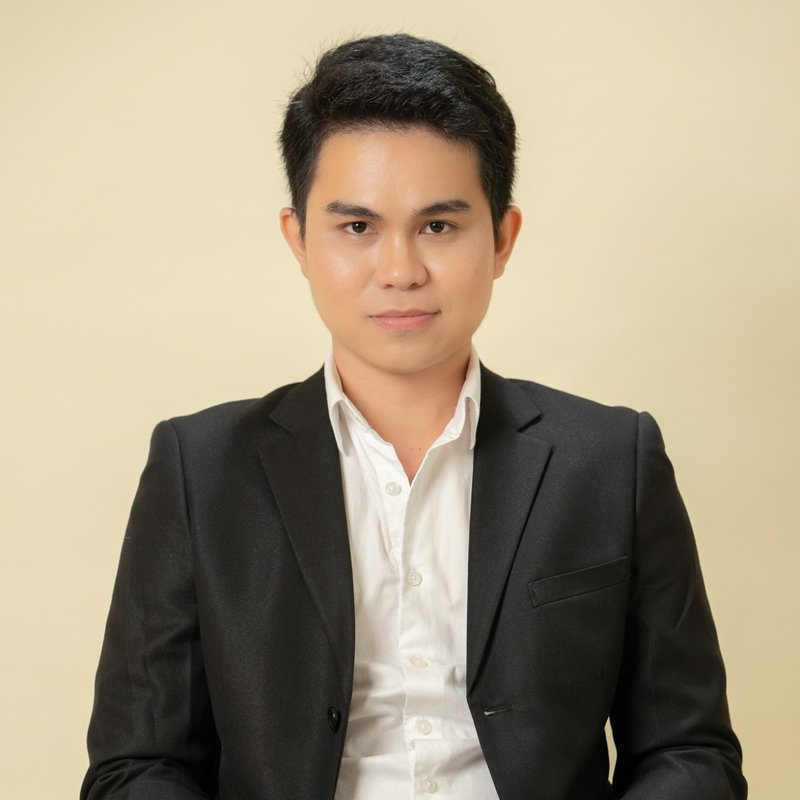
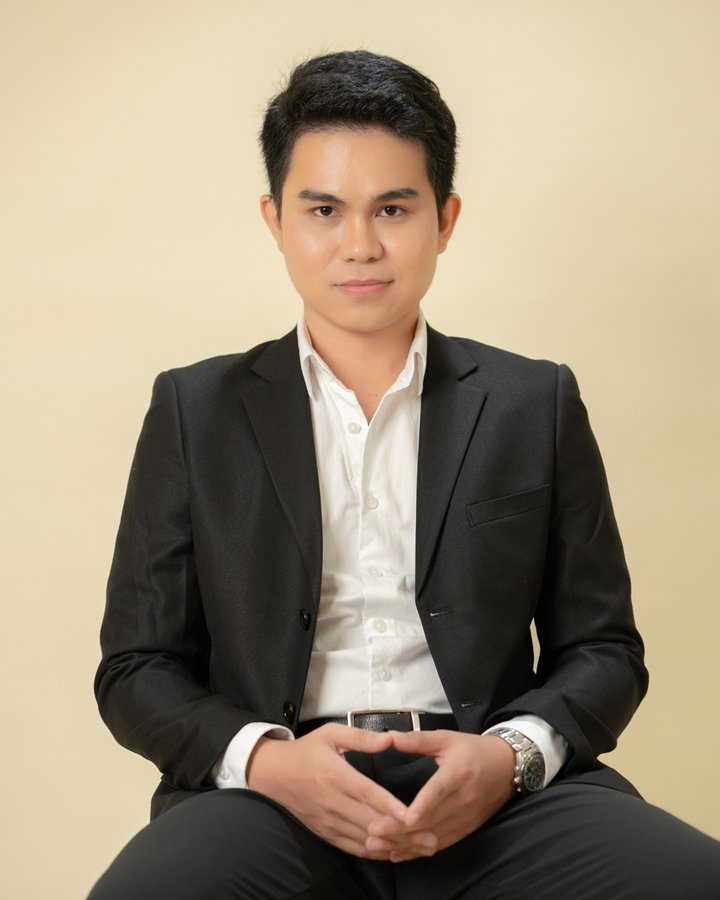
Hero: taller portrait crop, add Website Manager title and website management blurb
Claude-Session: https://claude.ai/code/session_01A6SFXxzqgw1Kb2Jz4P4VNZ

diff --git a/portfolio/index.html b/portfolio/index.html
@@ -34,15 +34,15 @@
           <div>
             <p class="eyebrow">Manila, Philippines</p>
             <h1>Archie Ringconada</h1>
-            <p class="tagline">Social Media Manager &amp; Paid Ads Specialist — also building AI Automation expertise</p>
-            <p class="lede">I help businesses grow their online presence end to end — social media, paid ads, content, and increasingly, the automation that runs behind the scenes.</p>
+            <p class="tagline">Social Media Manager, Paid Ads Specialist &amp; <span class="nb">Website Manager</span> — also building AI Automation expertise</p>
+            <p class="lede">I help businesses grow their online presence end to end — social media, paid ads, content, the websites behind them, and increasingly, the automation that runs behind the scenes.</p>
             <div class="actions">
               <a class="btn" href="#contact">Get in touch</a>
               <a class="btn btn-ghost" href="#social">See the results</a>
             </div>
           </div>
           <figure class="slot headshot" data-img="headshot.jpg" data-label="Headshot">
-            <img src="./images/headshot.jpg" alt="Portrait of Archie Ringconada" width="400" height="400" />
+            <img src="./images/headshot.jpg" alt="Portrait of Archie Ringconada" width="720" height="900" />
           </figure>
         </div>
       </section>
@@ -124,6 +124,11 @@
           <p class="eyebrow">Pillar 2</p>
           <h2>AI Automation &amp; Technical Operations</h2>
           <p class="lede narrow-left">I'm actively building deep expertise in AI automation, working hands-on with real client systems using tools like n8n, Claude Code, and workflow automation platforms. Here's real, measured work from current client projects.</p>
+
+          <div class="web-mgmt">
+            <h3>Website management</h3>
+            <p>Day-to-day care of live e-commerce sites: speed and performance fixes, stock and product updates, analytics and tracking, blog posting and content updates, and keeping everything running reliably on WooCommerce and Elementor.</p>
+          </div>
 
           <p class="tools"><strong>Tools used:</strong> WooCommerce, Elementor, GoHighLevel, Airtable, Boost.space/Make, GA4, Search Console, Claude Code</p>
 

diff --git a/portfolio/src/style.css b/portfolio/src/style.css
@@ -63,15 +63,15 @@ p { margin: 0 0 16px; }
 /* Hero */
 .hero { padding: 80px 0 72px; }
 .hero-grid { display: grid; grid-template-columns: 1.4fr 1fr; gap: 48px; align-items: center; }
-.tagline { font-size: 1.25rem; font-weight: 600; margin-bottom: 16px; }
+.tagline { font-size: 1.25rem; font-weight: 600; margin-bottom: 16px; text-wrap: balance; }
 .headshot { margin: 0; }
-.headshot img { width: 100%; aspect-ratio: 1; object-fit: cover; }
+.headshot img { width: 100%; aspect-ratio: 4 / 5; object-fit: cover; object-position: top; }
 
 /* Image slots */
 .slot { margin: 0; border-radius: var(--radius); overflow: hidden; background: #fff; border: 1px solid var(--line); }
 .slot.is-empty img { display: none; }
 .ph { display: flex; align-items: center; justify-content: center; text-align: center; min-height: 220px; padding: 20px; background: repeating-linear-gradient(45deg, #fbfcfc, #fbfcfc 12px, #f1f4f3 12px, #f1f4f3 24px); color: var(--muted); font-size: 0.85rem; }
-.headshot .ph { aspect-ratio: 1; }
+.headshot .ph { aspect-ratio: 4 / 5; }
 .slot figcaption { padding: 12px 16px; font-size: 0.9rem; color: var(--muted); border-top: 1px solid var(--line); }
 .slot figcaption strong { color: var(--text); }
 .team { display: block; margin-top: 4px; font-style: normal; font-weight: 600; color: var(--accent); }
@@ -151,3 +151,8 @@ form input:focus, form textarea:focus { outline: 2px solid var(--accent); border
   .nav a { padding: 10px 0; }
 }
 @media (prefers-reduced-motion: reduce) { html { scroll-behavior: auto; } }
+
+.web-mgmt { margin: 24px 0 8px; max-width: 760px; }
+.web-mgmt h3 { margin-bottom: 6px; }
+.web-mgmt p { color: var(--muted); }
+.nb { white-space: nowrap; }
